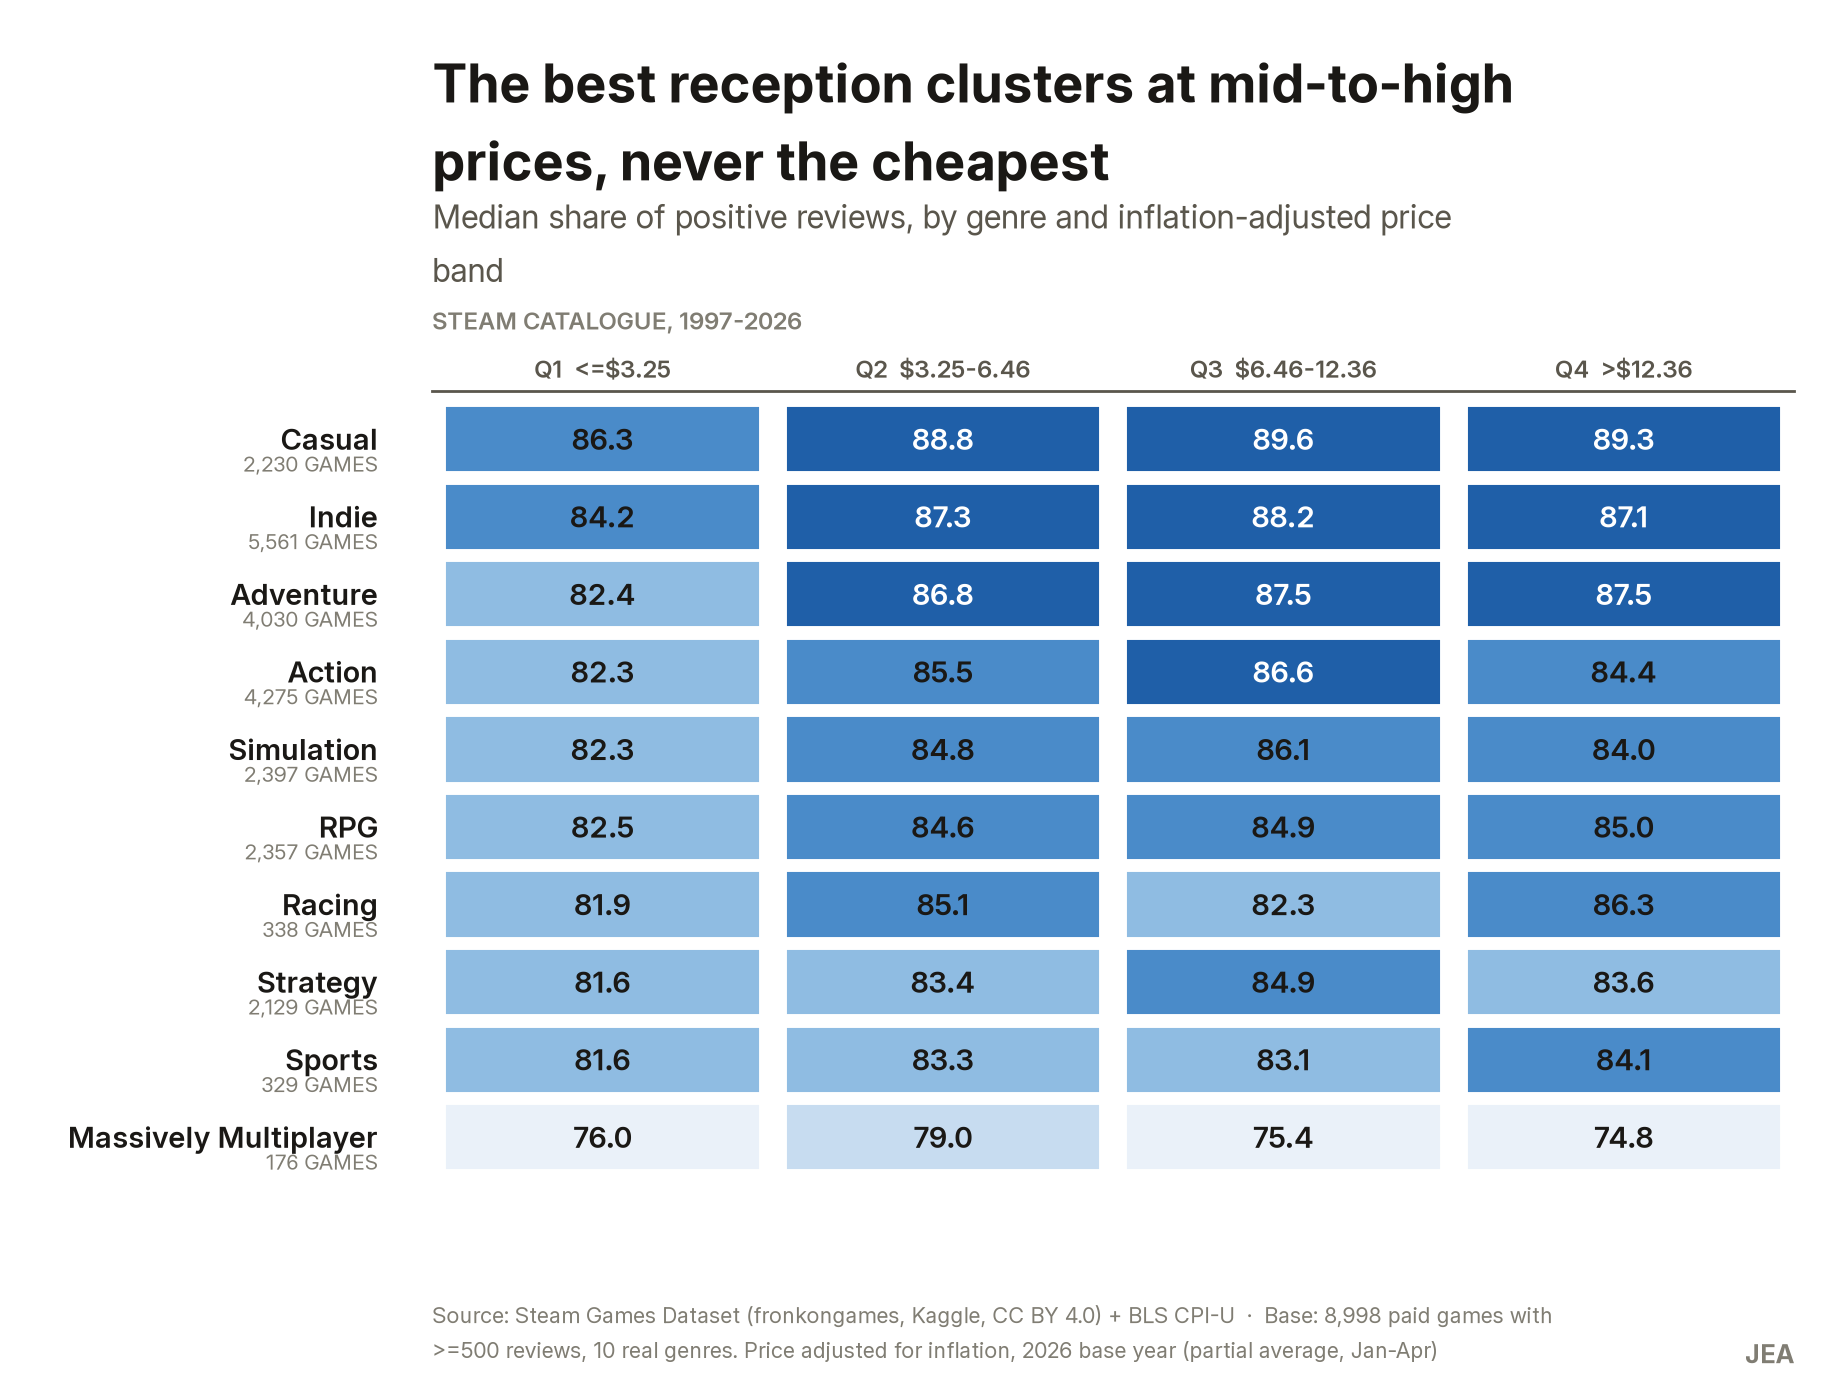
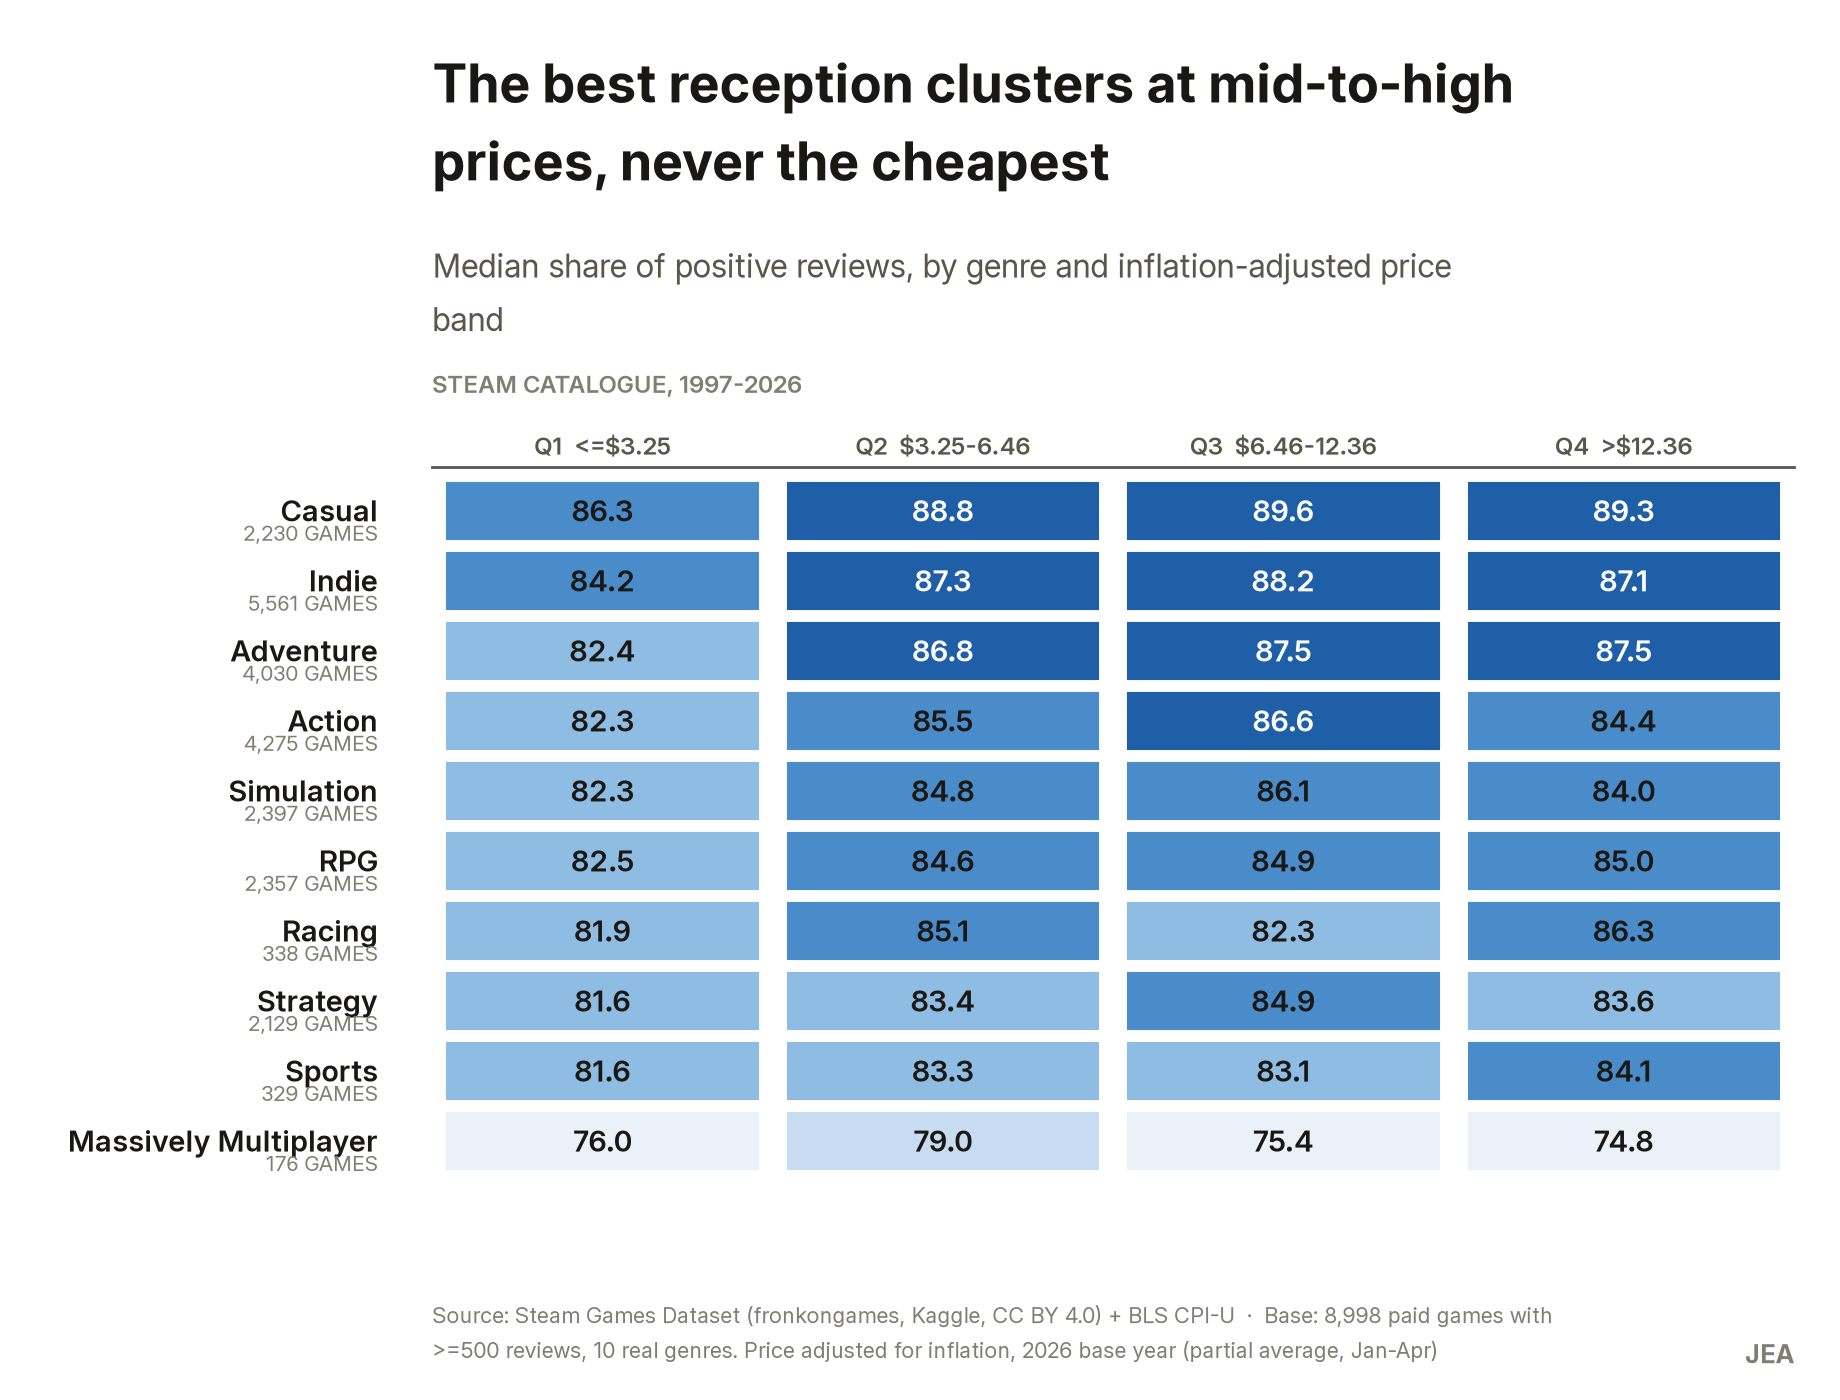
Measure the header instead of estimating it, and free the legend
The figures had two defects that looked like taste and were arithmetic.

Header spacing was a fraction of figure height while type is measured in
points, so the same design breathed at one canvas size and collided at
another — at 6.2in tall the gap between headline and subtitle was exactly
zero. estilo.py now measures each block from the composed text and spaces
them with GAP_* constants in points. The line count comes from textwrap's
own output rather than dividing character counts, which was the second
estimate stacked on the first.

Legend placement is no longer hardcoded. estilo.leyenda() puts it where
the plot is emptiest and frames it; when no position is free it opens
headroom and re-places it. dumbbell() loses its own legend so there is one
way to do this rather than two.

The annex documents both rules with the reason, since both are the kind of
thing that reads as a nitpick until it silently breaks: spacing in canvas
fractions works at one size, and a pinned legend works until the data
changes shape.

Changed region(s): [[0.031, 0.1229, 0.9913, 0.8293]]

diff --git a/framework/caso-de-estudio-datos/assets/estilo.py b/framework/caso-de-estudio-datos/assets/estilo.py
@@ -63,6 +63,27 @@ _RAMPA_TEXTO_BLANCO = 4
 FIRMA = "JEA"
 
 # ---------------------------------------------------------------------------
+# Ritmo vertical de la cabecera
+# ---------------------------------------------------------------------------
+#
+# En PUNTOS, no en fracción del lienzo. Es la diferencia entre un diseño y una
+# coincidencia: la tipografía se mide en puntos, así que si el aire se expresa
+# como fracción de la altura de la figura, el mismo diseño se aprieta al bajar
+# el lienzo y se desparrama al subirlo. Con una figura de 6.2" de alto el aire
+# entre titular y subtítulo llegaba a cero y los dos se solapaban.
+#
+# Tocar estos cuatro números cambia el espaciado de todas las figuras a la vez,
+# que es justo lo que hace que se vean como una familia.
+
+TAM_TITULAR = 19.0
+TAM_SUBTITULO = 11.5
+TAM_PERIODO = 8.5
+
+GAP_TITULAR_SUB = 14.0    # pt entre el titular y el subtítulo
+GAP_SUB_PERIODO = 9.0     # pt entre el subtítulo y la línea de periodo
+GAP_CABECERA_EJE = 26.0   # pt entre la cabecera y el borde superior de los ejes
+
+# ---------------------------------------------------------------------------
 # Tipografía
 # ---------------------------------------------------------------------------
 
@@ -144,6 +165,10 @@ def figura(titular, subtitulo=None, periodo=None, fuente=None, nota=None,
     que define la métrica, y una tercera línea opcional en versalitas con el
     alcance. El salto de tamaño y color entre los tres niveles es deliberado.
 
+    El aire entre niveles sale de las constantes `GAP_*`, en puntos, y el alto
+    de cada nivel se mide del texto ya dibujado. Así el espaciado es el mismo en
+    pulgadas sea cual sea el tamaño del lienzo.
+
     `abajo` no baja de 0.16: por debajo de eso el rótulo del eje X se solapa con
     la nota de fuente cuando la nota ocupa dos líneas.
     """
@@ -152,25 +177,38 @@ def figura(titular, subtitulo=None, periodo=None, fuente=None, nota=None,
 
     # Ancho de envoltura estimado a partir del ancho real en pulgadas.
     pulgadas = figsize[0] * ancho_util
-    y = 0.965
 
-    fig.text(izquierda, y, "\n".join(textwrap.wrap(titular, width=int(pulgadas * 6.4))),
-             va="top", ha="left", color=TINTA, linespacing=1.22,
-             **_prop("negrita", 19))
-    y -= 0.052 * (1 + titular.count("\n") + len(titular) // int(pulgadas * 6.4))
+    def gap(puntos):
+        """Puntos -> fracción de la altura de la figura."""
+        return puntos / (figsize[1] * 72.0)
+
+    def poner(texto, y, tam, peso, color, interlineado, ancho):
+        """Dibuja un nivel de la cabecera y devuelve la `y` del siguiente.
+
+        Mide el alto real del texto ya compuesto en vez de estimarlo a partir
+        del número de caracteres: `textwrap` ya sabe cuántas líneas salieron, y
+        el renderizador sabe cuánto ocupan.
+        """
+        t = fig.text(izquierda, y, "\n".join(textwrap.wrap(texto, width=ancho)),
+                     va="top", ha="left", color=color, linespacing=interlineado,
+                     **_prop(peso, tam))
+        caja = t.get_window_extent(renderer=fig.canvas.get_renderer())
+        return y - caja.transformed(fig.transFigure.inverted()).height
+
+    y = 0.965
+    y = poner(titular, y, TAM_TITULAR, "negrita", TINTA, 1.22, int(pulgadas * 6.4))
 
     if subtitulo:
-        fig.text(izquierda, y, "\n".join(textwrap.wrap(subtitulo, width=int(pulgadas * 11))),
-                 va="top", ha="left", color=TINTA_SUAVE, linespacing=1.3,
-                 **_prop("regular", 11.5))
-        y -= 0.038 * (1 + len(subtitulo) // int(pulgadas * 11))
+        y -= gap(GAP_TITULAR_SUB)
+        y = poner(subtitulo, y, TAM_SUBTITULO, "regular", TINTA_SUAVE, 1.3,
+                  int(pulgadas * 11))
 
     if periodo:
-        fig.text(izquierda, y - 0.004, periodo.upper(), va="top", ha="left",
-                 color=TINTA_TENUE, **_prop("medio", 8.5))
-        y -= 0.036
+        y -= gap(GAP_SUB_PERIODO)
+        y = poner(periodo.upper(), y, TAM_PERIODO, "medio", TINTA_TENUE, 1.2,
+                  int(pulgadas * 15))
 
-    arriba = max(y - 0.035, 0.45)
+    arriba = max(y - gap(GAP_CABECERA_EJE), 0.45)
     ax = fig.add_axes([izquierda, abajo, ancho_util, arriba - abajo])
 
     pie = []
@@ -211,6 +249,71 @@ def destacar(categorias, protagonistas, acento=ACENTO, resto=CONTEXTO):
     return [acento if c in p else resto for c in categorias]
 
 
+def leyenda(ax, tam=9, holgura_max=0.45, **kwargs):
+    """Leyenda en el hueco más libre de datos, enmarcada como un bloque.
+
+    Dos decisiones, y son independientes:
+
+    **Dónde.** `loc="best"` — matplotlib ya evalúa el solapamiento con líneas,
+    parches y colecciones y elige el ancla con menos. Fijarla a mano
+    (`"lower right"`) funciona hasta que los datos cambian de forma: así fue
+    como una leyenda acabó metida entre las barras del primer grupo.
+
+    **Cómo.** Relleno opaco y borde fino. El relleno importa tanto como el
+    borde: es lo que la despega de la cuadrícula y la convierte en un bloque en
+    vez de texto flotando encima del gráfico.
+
+    Y una red de seguridad: si ni el mejor sitio está libre —barras desde cero
+    que llenan el panel, por ejemplo— `best` devuelve "la esquina menos mala" y
+    el problema sigue ahí. En ese caso se sube el techo del eje hasta abrirle
+    sitio de verdad. La base en cero no se toca, así que no distorsiona nada:
+    solo añade aire arriba.
+    """
+    fig = ax.figure
+    y0, y1 = ax.get_ylim()
+
+    def dibujar():
+        leg = ax.legend(loc="best", frameon=True, fancybox=False, framealpha=1.0,
+                        facecolor=PAPEL, edgecolor=REGLA, borderpad=0.7,
+                        labelspacing=0.55, handletextpad=0.6, **kwargs)
+        leg.get_frame().set_linewidth(0.9)
+        for t in leg.get_texts():
+            t.set_color(TINTA_SUAVE)
+            t.set_fontsize(tam)
+        return leg
+
+    leg = dibujar()
+    if not _pisa_datos(ax, leg):
+        return leg
+
+    # Ampliar el eje sin más no basta: `best` ya eligió y no se reevalúa solo.
+    # Hay que abrir el hueco y volver a colocarla, en el mínimo paso que sirva.
+    for paso in (0.12, 0.22, 0.34, holgura_max):
+        ax.set_ylim(y0, y0 + (y1 - y0) * (1 + paso))
+        leg.remove()
+        fig.canvas.draw()
+        leg = dibujar()
+        if not _pisa_datos(ax, leg):
+            return leg
+    return leg
+
+
+def _pisa_datos(ax, leg) -> bool:
+    """¿La leyenda se superpone a alguna marca dibujada?"""
+    r = ax.figure.canvas.get_renderer()
+    caja = leg.get_window_extent(renderer=r)
+    for art in list(ax.patches) + list(ax.lines) + list(ax.collections):
+        try:
+            otra = art.get_window_extent(renderer=r)
+        except (AttributeError, ValueError, TypeError):
+            continue
+        if otra.width <= 0 or otra.height <= 0:
+            continue
+        if caja.overlaps(otra):
+            return True
+    return False
+
+
 def anotar(ax, texto, xy, xytexto, color=TINTA_SUAVE, tam=9, flecha=True):
     """Anotación directiva, con el estilo de las referencias: texto corto que
     señala un punto concreto en vez de un párrafo debajo del gráfico."""
@@ -248,13 +351,11 @@ def dumbbell(ax, categorias, desde, hasta, etiqueta_desde=None, etiqueta_hasta=N
     ax.grid(axis="x", zorder=0)
     ax.set_axisbelow(True)
 
+    # Solo registra las marcas de la clave. Quién dibuja la leyenda es
+    # `leyenda()`, para que haya una sola forma de colocarla.
     if etiqueta_desde and etiqueta_hasta:
         ax.scatter([], [], s=62, color=color_desde, label=etiqueta_desde)
         ax.scatter([], [], s=72, color=color_hasta, label=etiqueta_hasta)
-        leg = ax.legend(loc="lower right", handletextpad=0.4, borderaxespad=0.2)
-        for t in leg.get_texts():
-            t.set_color(TINTA_SUAVE)
-            t.set_fontsize(9)
 
 
 def _color_celda(valor, vmin, vmax):

diff --git a/framework/caso-de-estudio-datos/references/anexo-visualizacion.md b/framework/caso-de-estudio-datos/references/anexo-visualizacion.md
@@ -170,6 +170,17 @@ Firma                monograma, al pie derecha
 El salto de tamaño y de color entre los tres niveles de cabecera es deliberado y **más agresivo de
 lo que parece natural**. Un titular apenas mayor que el subtítulo no jerarquiza nada.
 
+**El aire entre niveles se mide en puntos, no en fracción del lienzo.** Es la regla menos obvia de
+esta sección y la que más rompe cuando se ignora: la tipografía tiene tamaño absoluto, así que un
+espaciado expresado como porcentaje de la altura de la figura se aprieta al bajar el lienzo y se
+desparrama al subirlo. El mismo diseño que respira a 6,8 pulgadas de alto **colisiona a 6,2**, y
+el fallo no aparece hasta que alguien cambia un `figsize`.
+
+Corolario práctico: el alto de cada bloque de texto se **mide** del texto ya compuesto
+(`get_window_extent`), no se estima contando caracteres. `textwrap` ya sabe cuántas líneas salieron
+y el renderizador sabe cuánto ocupan; estimarlo es elegir equivocarse con titulares que reparten
+mal las palabras.
+
 ### La paleta
 
 Un acento único y fuerte, gris neutro para todo lo demás, un cálido secundario para el otro lado
@@ -254,17 +265,36 @@ Convierte "acordarse de doce reglas" en llamar a tres funciones:
 | `aplicar()` | `rcParams`: tipografía, tamaños, sin marco superior ni derecho, cuadrícula tenue |
 | `figura(titular, subtitulo, periodo, fuente, nota)` | Devuelve `fig, ax` con cabecera, nota de fuente y firma ya compuestos |
 | `destacar(categorias, protagonistas)` | Lista de colores para el contraste dirigido |
+| `leyenda(ax)` | Leyenda enmarcada, colocada en el hueco más libre de datos |
 | `anotar(ax, texto, xy, xytexto)` | Anotación con flecha en el estilo de la identidad |
 | `dumbbell(ax, categorias, desde, hasta)` | La forma de la sección 7 |
 | `tabla_matriz(...)` y `tabla_ranking(...)` | Las tablas-figura de la sección 6 |
 | `guardar(fig, ruta)` | dpi uniforme |
 
-**Dos cosas que el módulo resuelve y conviene no deshacer:**
+### La leyenda va donde no hay datos
+
+**Nunca se fija a mano.** `loc="lower right"` funciona hasta que los datos cambian de forma; así
+es como una leyenda acabó metida entre las barras del primer grupo, ilegible y sin sentido.
+`leyenda()` usa `loc="best"`, que evalúa el solapamiento real con las marcas dibujadas y elige.
+
+Dos detalles que la convierten en bloque en vez de texto flotante: **relleno opaco** y borde fino.
+El relleno importa tanto como el borde — es lo que la despega de la cuadrícula.
+
+Y el caso que `best` no puede resolver solo: **cuando no hay ningún hueco**. Con barras desde cero
+que llenan el panel, las nueve anclas están ocupadas y `best` devuelve la menos mala, que sigue
+pisando datos. Ahí `leyenda()` abre sitio subiendo el techo del eje y la recoloca —ampliar el eje
+sin recolocar no sirve, porque `best` ya eligió y no se reevalúa solo—. La base en cero no se
+toca: solo se añade aire arriba, así que no distorsiona nada.
+
+**Tres cosas que el módulo resuelve y conviene no deshacer:**
 
 - `guardar()` **no usa `bbox_inches='tight'`**. La cabecera y la firma viven fuera de los ejes; el
   recorte automático se los come.
 - El margen inferior no baja de 0.16. Por debajo de eso el rótulo del eje X se solapa con la nota
   de fuente cuando la nota ocupa dos líneas.
+- El ritmo vertical vive en las constantes `GAP_*`, en puntos. Tocar esos números cambia el
+  espaciado de **todas** las figuras a la vez: es lo que las hace parecer una familia en vez de
+  cuatro gráficos con el mismo color.
 
 Después de generar, **abrir las figuras y mirarlas**. El módulo garantiza la composición, no que
 una anotación no cruce una etiqueta vecina. Eso solo se ve mirando.
@@ -313,6 +343,7 @@ conflicto) y **trama** (qué muestran los datos y qué implica).
 - [ ] Paleta validada sobre el fondo real, no elegida a ojo.
 - [ ] Forma revisada contra el catálogo de la sección 7 antes de aceptar la obvia.
 - [ ] Figuras abiertas y miradas: ninguna anotación cruza una etiqueta vecina.
+- [ ] La cabecera tiene aire entre sus tres niveles, y ninguna leyenda pisa los datos.
 - [ ] Ningún elemento 3D, ninguna sombra, cuadrícula mínima.
 - [ ] Ordenado por valor salvo que el orden tenga significado.
 - [ ] Información nunca codificada solo con color.
@@ -330,6 +361,8 @@ conflicto) y **trama** (qué muestran los datos y qué implica).
 - Barras agrupadas de dos series donde el hallazgo es una diferencia: eso es un dumbbell.
 - Mapa de calor donde el lector necesita el número exacto: eso es una tabla-matriz.
 - Dar la figura por buena porque el script no dio error, sin abrir el PNG.
+- Espaciar la cabecera en fracciones del lienzo: funciona a un tamaño y colisiona a otro.
+- Fijar la leyenda a una esquina y no volver a mirarla cuando los datos cambian de forma.
 - Paleta de arcoíris para una variable ordenada: no tiene orden perceptual.
 - Escalar burbujas por diámetro en lugar de por área.
 - Mostrar los quince gráficos producidos en vez de los cuatro que argumentan.
